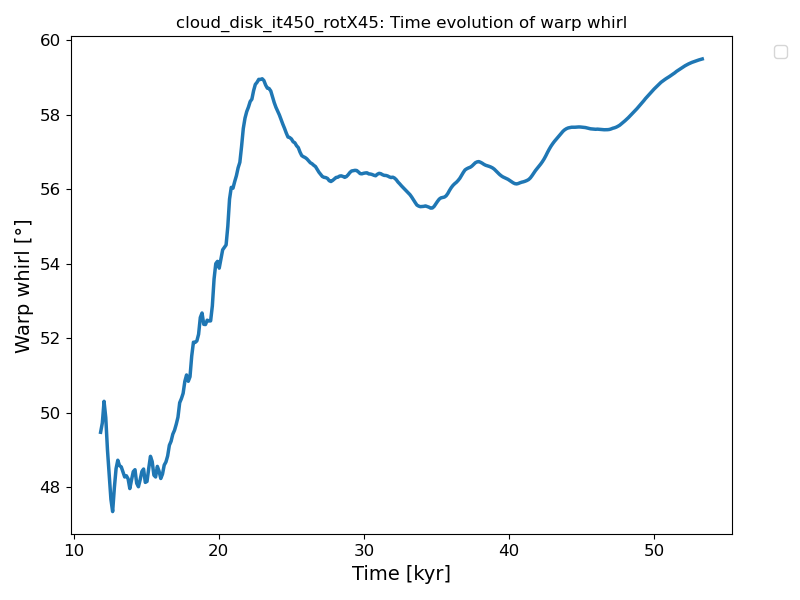
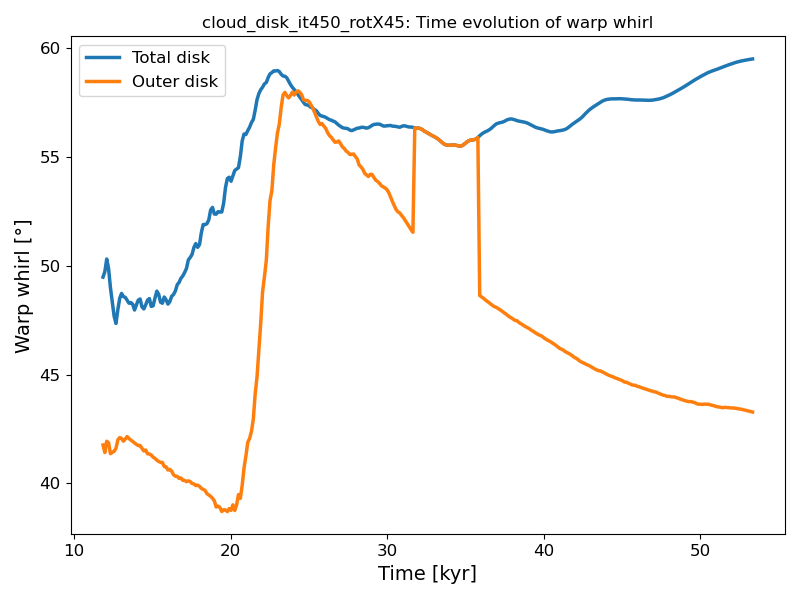
outer disk whirl calc

diff --git a/analysis.py b/analysis.py
@@ -511,7 +511,7 @@ def calc_inc_twist(Lx_avg, Ly_avg, Lz_avg, R, savefig, plot=True):
     return inc_deg, twist_deg
 
 
-def isolate_outer_disk(X, Y, Z, buffer, dens, vx, vy, vz, Lx, Ly, Lz, threshold):
+def isolate_outer_disk(R, RCYL, ZCYL, r_break, dens, Lx, Ly, Lz, threshold):
     """
     A crude way to isolate the disk: first isolating the box surrounding the disk of interest (primary or secondary) and then applying a density threshold to capture the highest densities in the simulation output to obtain the disk and reject the background
 
@@ -520,59 +520,31 @@ def isolate_outer_disk(X, Y, Z, buffer, dens, vx, vy, vz, Lx, Ly, Lz, threshold)
     X:            3D meshgrid of Cartesian X values with shape (n_theta-1, n_r-1, n_phi-1)
     Y:            3D meshgrid of Cartesian Y values with shape (n_theta-1, n_r-1, n_phi-1)
     Z:            3D meshgrid of Cartesian Z values with shape (n_theta-1, n_r-1, n_phi-1) 
-    cenX:         Stellar X-coordinate (float)
-    cenY:         Stellar Y-coordinate (float)
-    cenZ:         Stellar Z-coordinate (float) 
-    buffer:       Size of the box to be isolated around the star 
-    dens:         3D array of centered density in g/cm^3 with shape (n_theta-1, n_r-1, n_phi-1)
-    vx:           3D meshgrid of Cartesian X velocities with shape (n_theta-1, n_r-1, n_phi-1)
-    vy:           3D meshgrid of Cartesian Y velocities with shape (n_theta-1, n_r-1, n_phi-1)
-    vz:           3D meshgrid of Cartesian Z velocities with shape (n_theta-1, n_r-1, n_phi-1) 
-    Lx:           Angular momentum array in x-direction with size (theta-1, n_r-1, n_phi-1)
-    Ly:           Angular momentum array in y-direction with size (theta-1, n_r-1, n_phi-1)
-    Lz:           Angular momentum array in z-direction with size (theta-1, n_r-1, n_phi-1)        
+    dens:         3D array of centered density in g/cm^3 with shape (n_theta-1, n_r-1, n_phi-1)        
     threshold:    Threshold density by which we filter the dens array
 
     Outputs:
     -------
-    disk_dens:    3D array of filtered density in g/cm^3 with shape (n_theta-1, n_r-1, n_phi-1)
-    disk_vx:      3D array of filtered x velocities in cm/s with shape (n_theta-1, n_r-1, n_phi-1)
-    disk_vy:      3D array of filtered y velocities in cm/s with shape (n_theta-1, n_r-1, n_phi-1)
-    disk_vz:      3D array of filtered z velocities in cm/s with shape (n_theta-1, n_r-1, n_phi-1)
-    disk_Lx:      3D array of filtered x angular momenta in CGS with shape (n_theta-1, n_r-1, n_phi-1)
-    disk_Ly:      3D array of filtered y angular momenta in CGS with shape (n_theta-1, n_r-1, n_phi-1)
-    disk_Lz:      3D array of filtered z angular momenta in CGS with shape (n_theta-1, n_r-1, n_phi-1)
+    outer_dens:   3D array of filtered density in g/cm^3 with shape (n_theta-1, n_r-1, n_phi-1)
     ids:          3D array of indices corresponding to disk_dens
     """
 
-    # First isolating the box around the disk of interest to avoid capturing points outside disk that meet density threshold
-    box_mask = (
-        (X >= cenX - buffer) & (X <= cenX + buffer) &
-        (Y >= cenY - buffer) & (Y <= cenY + buffer) &
-        (Z >= cenZ - buffer) & (Z <= cenZ + buffer)
-    )
-    box_dens = np.where(box_mask, dens, np.nan)
-    box_vx = np.where(box_mask, vx, np.nan)
-    box_vy = np.where(box_mask, vy, np.nan)
-    box_vz = np.where(box_mask, vz, np.nan)
-    box_Lx = np.where(box_mask, Lx, np.nan)
-    box_Ly = np.where(box_mask, Ly, np.nan)
-    box_Lz = np.where(box_mask, Lz, np.nan)
+    outer_mask_geom = (R > r_break) & (RCYL < np.max(RCYL)) & (np.abs(ZCYL) < np.max(np.abs(ZCYL)))
+    outer_dens_box = np.where(outer_mask_geom, dens, np.nan)
+    outer_Lx_box = np.where(outer_mask_geom, Lx, np.nan)
+    outer_Ly_box = np.where(outer_mask_geom, Ly, np.nan)
+    outer_Lz_box = np.where(outer_mask_geom, Lz, np.nan)
 
-    # Filtering densities greater than a given threshold; values below the threshold are designated nan
-    dens_mask = dens > 10**threshold
-    outer_dens = np.where(dens_mask, box_dens, np.nan)
-    outer_vx = np.where(dens_mask, box_vx, np.nan)
-    outer_vy = np.where(dens_mask, box_vy, np.nan)
-    outer_vz = np.where(dens_mask, box_vz, np.nan)
-    outer_Lx = np.where(dens_mask, box_Lx, np.nan)
-    outer_Ly = np.where(dens_mask, box_Ly, np.nan)
-    outer_Lz = np.where(dens_mask, box_Lz, np.nan)
+    outer_mask_dense = dens > 10**threshold
+    outer_dens = np.where(outer_mask_dense, outer_dens_box, np.nan)
+    outer_Lx = np.where(outer_mask_dense, outer_Lx_box, np.nan)
+    outer_Ly = np.where(outer_mask_dense, outer_Ly_box, np.nan)
+    outer_Lz = np.where(outer_mask_dense, outer_Lz_box, np.nan)
 
     # Also finding the corresponding x, y, z indices of the filtered densities
     ids = ~np.isnan(outer_dens)
 
-    return outer_dens, outer_vx, outer_vy, outer_vz, outer_Lx, outer_Ly, outer_Lz, ids
+    return outer_dens, outer_Lx, outer_Ly, outer_Lz, ids
 
 
 def calc_total_L(Lx_avg, Ly_avg, Lz_avg):
@@ -616,9 +588,9 @@ def calc_whirl(Lx_tot, Ly_tot, Lz_tot, ini_cloud_phi):
 
 def main():
 
-    folder = Path("../cloud_disk_it450_Rout30_rotX45/")                        # Folder with the output files
-    # folder = Path("../fargo3d/outputs/cloud_disk_it450_Rout30_rotX45")         # Folder with the output files (BinAC2)
-    fig_imgs = Path("cloud_disk_it450_Rout30_rotX45/imgs/")                    # Folder to save images
+    folder = Path("../cloud_disk_it450_rotX45/")                        # Folder with the output files
+    # folder = Path("../fargo3d/outputs/cloud_disk_it450_rotX45")         # Folder with the output files (BinAC2)
+    fig_imgs = Path("cloud_disk_it450_rotX45/imgs/")                    # Folder to save images
     it = 450                                                       # FARGO snapshot of interest
     sim_name = str(fig_imgs).split('/')[0]                         # Simulation name (for plot labels)
     
@@ -718,7 +690,7 @@ def main():
     # XY_2D_plot(rho, X, Y, irad, itheta, title=rf'{sim_name}: Density X-Y Plane $\theta = $ {itheta_deg}$^{{\circ}}$', colorbarlabel=r"$\log(\rho)$", savefig=True, figfolder=f'{fig_imgs}/dens_xy_theta{itheta}_rad{irad}_it{it}.png', showfig=True)
 
     # Plotting the 3D warp/disk densities 
-    # contours_3D(X_c/au, Y_c/au, Z_c/au, np.log10(rho_c_warp), r_select, plot_args, colorbarlabel=r'$\log(\rho) [g/cm^3]$', title=rf'{sim_name}: Initial & Outer Disks: $\log(\rho)$', savefig=True, figfolder=f'{fig_imgs}/warp_dens_thresh{warp_thresh}_it{it}.png', showfig=True)
+    contours_3D(X_c/au, Y_c/au, Z_c/au, np.log10(rho_c_warp), r_select, plot_args, colorbarlabel=r'$\log(\rho) [g/cm^3]$', title=rf'{sim_name}: Initial & Outer Disks: $\log(\rho)$', savefig=True, figfolder=f'{fig_imgs}/warp_dens_thresh{warp_thresh}_it{it}.png', showfig=True)
     
     # Another way to plot the warp/disk densities
     # contours_3D(X_c[warp_ids]/au, Y_c[warp_ids]/au, Z_c[warp_ids]/au, rho_c[warp_ids], fig, colorbarlabel=r'$\rho [g/cm^3]$', title=rf'$\log(\rho)$ above $\rho = 10^{{{threshold}}} g/cm^3$')
@@ -748,12 +720,34 @@ def main():
     # Calculating the radial profile of warp/disk inclination and precession according to Kimmig & Dullemond (2024)
     Lx_warp_avg, Ly_warp_avg, Lz_warp_avg = calc_L_average(Lx_c_warp, Ly_c_warp, Lz_c_warp, mass)
     inc, twist = calc_inc_twist(Lx_warp_avg, Ly_warp_avg, Lz_warp_avg, domains["r"], savefig=False, plot=False)
-    print(np.min(twist), np.max(twist), np.mean(twist))
+    # print(np.min(twist), np.max(twist), np.mean(twist))
     # print(np.min(inc), np.max(inc), np.mean(inc))
 
-    # Isolating the outer disk by finding discontinuity in d(inc)/dr 
+
+    ###################################### Isolating the outer disk ############################################
+    
+
+    # Finding the radial separation between the inner and outer disks at the discontinuity of dinc/dr
     r_break = plot_disk_sep(domains["r"], inc, title=rf"{sim_name}: Inclination Gradient", savefig=True, figfolder=f'{fig_imgs}/dinc_dr.png', showfig=True)
     print("r_break:", r_break/au)
+
+    # Isolating the outer disk using r_break and a density threshold
+    R_c = centering(R)
+    RCYL_c = centering(RCYL)
+    outer_thresh = -17
+    outer_rho, Lx_outer, Ly_outer, Lz_outer, outer_ids = isolate_outer_disk(R_c, RCYL_c, Z_c, r_break, rho_c, Lx, Ly, Lz, threshold=outer_thresh)
+    r_outer_extent = np.sqrt(X_c[outer_ids]**2 +  Y_c[outer_ids]**2 + Z_c[outer_ids]**2) / au
+    mask = (domains["r"]/au >= r_outer_extent.min()) & (domains["r"]/au <= r_outer_extent.max())
+    r_outer = domains["r"][mask]
+
+    # Plotting outer disk in 3D
+    contours_3D(X_c/au, Y_c/au, Z_c/au, np.log10(outer_rho), r_outer, sim_params=None, colorbarlabel=r'$\log(\rho) [g/cm^3]$', title=rf'{sim_name}: Outer Disk: $\log(\rho)$', savefig=True, figfolder=f'{fig_imgs}/outer_dens_thresh{outer_thresh}_it{it}.png', showfig=True)
+
+
+    ###################### Disk morphology properties separating inner and outer disks #############################
+
+
+    ######### Total disk properties 
 
     # Calculating and plotting the total angular momentum of the warped disk
     Lx_disk, Ly_disk, Lz_disk = calc_total_L(Lx_warp_avg, Ly_warp_avg, Lz_warp_avg)
@@ -765,11 +759,22 @@ def main():
     # print("CLOUD_PHI:", cloud_phi)
 
     whirl = calc_whirl(Lx_disk, Ly_disk, Lz_disk, cloud_phi)
-    # print("WHIRL: ", whirl)
+    print("TOTAL DISK WHIRL: ", whirl)
 
     # Calculating and plotting the radial profile of warp/disk precession as a quiver plot
-    # plot_twist_arrows(Lx_warp_avg, Ly_warp_avg, Lz_warp_avg, domains["r"], r_select, plot_args, title=f"{sim_name}: Disk Twist", savefig=True, figfolder=f'{fig_imgs}/warp_twist_arrows_it{it}_dens{warp_thresh}.png', showfig=True)
-    # print(np.shape(Lx_warp_avg/Lx_disk), r_select.shape)
+    plot_twist_arrows(Lx_warp_avg, Ly_warp_avg, Lz_warp_avg, domains["r"], r_select, plot_args, title=f"{sim_name}: Disk Twist", savefig=True, figfolder=f'{fig_imgs}/warp_twist_arrows_it{it}_dens{warp_thresh}.png', showfig=True)
+    
+    ######### Outer disk properties 
+
+    # Radially averaged outer disk momenta
+    Lx_outer_avg, Ly_outer_avg, Lz_outer_avg = calc_L_average(Lx_outer, Ly_outer, Lz_outer, mass)
+    plot_twist_arrows(Lx_outer_avg, Ly_outer_avg, Lz_outer_avg, domains["r"], r_outer, sim_params=None, title=f"{sim_name}: Outer Disk Twist", savefig=True, figfolder=f'{fig_imgs}/outer_twist_arrows_it{it}_dens{outer_thresh}.png', showfig=True)
+
+    # Total outer disk momenta
+    Lx_outer_disk, Ly_outer_disk, Lz_outer_disk = calc_total_L(Lx_outer_avg, Ly_outer_avg, Lz_outer_avg)
+    outer_whirl = calc_whirl(Lx_outer_disk, Ly_outer_disk, Lz_outer_disk, cloud_phi)
+    print("OUTER DISK WHIRL: ", outer_whirl)
+
     # plotly_quiver3D(np.logspace(1, np.log10(r_select.max()/au), len(Lx_warp_avg)), np.zeros(len(Lx_warp_avg)), np.zeros(len(Lx_warp_avg)), Lx_warp_avg/Lx_disk, Ly_warp_avg/Ly_disk, Lz_warp_avg/Lz_disk, savefig=False, figfolder=f'{fig_imgs}/plotly_vel_thresh{warp_thresh}_it{it}.png', showfig=True)
 
     # quiver_plot_3d(np.array([Px]), np.array([Py]), np.array([Pz]), np.array([Lx_disk]), np.array([Ly_disk]), np.array([Lz_disk]), stagger=1, length=0.05, title=f"{sim_name} Total disk angular momentum", colorbarlabel="logL", savefig=False, figfolder=f'{fig_imgs}/{sim_name}_totalL.png', logmag=True)

diff --git a/time_evol.py b/time_evol.py
@@ -3,15 +3,17 @@
 import numpy as np
 from pathlib import Path
 from read import get_domain_spherical, get_data, load_par_file, get_param_value
-from analysis import sph_to_cart, vel_sph_to_cart, centering, calc_angular_momentum, calc_cell_volume, calc_eccen, calc_LRL, calc_mass, calc_surfdens, isolate_disk, calc_L_average, calc_simtime, calc_inc_twist, calc_whirl, calc_total_L, ini_cloudlet_pos
+from analysis import sph_to_cart, vel_sph_to_cart, centering, calc_angular_momentum, calc_cell_volume, calc_eccen, calc_LRL, calc_mass, calc_surfdens, isolate_disk, calc_L_average, calc_simtime, calc_inc_twist, calc_whirl, calc_total_L, ini_cloudlet_pos, isolate_outer_disk
 import matplotlib.pyplot as plt
 from mpl_toolkits.mplot3d.art3d import Poly3DCollection
 from matplotlib import cm
+import matplotlib.colors as colors
+import colormaps as cmaps
 from mpl_toolkits.mplot3d import Axes3D
 from PIL import Image
 import pandas as pd
 import os
-from no_thoughts_just_plots import XY_2D_plot, cyl_2D_plot, quiver_plot_3d, contours_3D, plot_surf_dens, plot_twist_arrows, make_evol_GIF, plot_total_disks_bonanza
+from no_thoughts_just_plots import XY_2D_plot, cyl_2D_plot, quiver_plot_3d, contours_3D, plot_surf_dens, plot_twist_arrows, make_evol_GIF, plot_total_disks_bonanza, plot_disk_sep
 import astropy.constants as c
 au = c.au.cgs.value
 G = 6.67e-8               # Gravitational constant in cgs units
@@ -46,6 +48,8 @@ def main():
     inc_it = []                                               # List to save disk inclination at each iteration
     prec_it = []                                              # List to save disk precession at each iteration
     whirl_it = []                                             # List to save disk whirl at each iteration
+    outer_whirl_it = []                                       # List to save outer disk whirl at each iteration
+    di_dr_it = []                                             # List to save d(inc)/dr at each iteration
     L_angle_it = []                                           # List to save L angle between primary and companion at each iteration
     surf_dens_iter = []                                       # List to save surface density at each iter_check
     r_surf_dens_iter = []                                     # List to save surface density radii at each iter_check
@@ -163,6 +167,35 @@ def main():
 
         # Calculating and plotting the radial profile of warp precession as a quiver plot
         # plot_twist_arrows(Lx_warp_avg, Ly_warp_avg, Lz_warp_avg, domains["r"], r_select, plot_args, title=f"Warp twist {sim_name} t={int(calc_simtime(it))} kyr", savefig=True, figfolder=f'{fig_imgs}/warp_twist_arrows_it{it}.png', showfig=False)
+
+
+        ###################################### Isolating the outer disk ############################################
+    
+
+        # Finding the radial separation between the inner and outer disks at the discontinuity of dinc/dr
+        di_dr = np.gradient(inc, rc)
+        di_dr_it.append(di_dr)
+        r_break = rc[np.nanargmax(np.abs(di_dr))]
+        print("r_break:", r_break/au)
+
+        # Isolating the outer disk using r_break and a density threshold
+        R_c = centering(R)
+        RCYL_c = centering(RCYL)
+        outer_thresh = -17
+        outer_rho, Lx_outer, Ly_outer, Lz_outer, outer_ids = isolate_outer_disk(R_c, RCYL_c, Z_c, r_break, rho_c, Lx, Ly, Lz, threshold=outer_thresh)
+        r_outer_extent = np.sqrt(X_c[outer_ids]**2 +  Y_c[outer_ids]**2 + Z_c[outer_ids]**2) / au
+        mask = (domains["r"]/au >= r_outer_extent.min()) & (domains["r"]/au <= r_outer_extent.max())
+        r_outer = domains["r"][mask]
+
+        # Radially averaged outer disk momenta
+        Lx_outer_avg, Ly_outer_avg, Lz_outer_avg = calc_L_average(Lx_outer, Ly_outer, Lz_outer, mass)
+        # plot_twist_arrows(Lx_outer_avg, Ly_outer_avg, Lz_outer_avg, domains["r"], r_outer, sim_params=None, title=f"{sim_name}: Outer Disk Twist", savefig=True, figfolder=f'{fig_imgs}/outer_twist_arrows_it{it}_dens{outer_thresh}.png', showfig=True)
+
+        # Total outer disk momenta
+        Lx_outer_disk, Ly_outer_disk, Lz_outer_disk = calc_total_L(Lx_outer_avg, Ly_outer_avg, Lz_outer_avg)
+        outer_whirl = calc_whirl(Lx_outer_disk, Ly_outer_disk, Lz_outer_disk, cloud_phi)
+        print("OUTER DISK WHIRL: ", outer_whirl)
+        outer_whirl_it.append(outer_whirl)
 
         # Calculating warp surface density
         if it in iter_check:
@@ -329,16 +362,37 @@ def main():
     plt.show()
 
 
-    # Plot time evolution of warp whirl in 2D for some specific iters in iter_check
+    # Plot time evolution of total disk whirl and outer disk whirl  
     fig = plt.figure(figsize=(8, 6))
-    plt.plot(dt_years, whirl_it)
+    plt.plot(dt_years, whirl_it, label="Total disk")
+    plt.plot(dt_years, outer_whirl_it, label="Outer disk")
     plt.xlabel("Time [kyr]")
     plt.ylabel("Warp whirl [°]")
-    plt.legend(bbox_to_anchor=(1.05, 1), loc='upper left')
+    plt.legend(loc='upper left')
     plt.title(f"{sim_name}: Time evolution of warp whirl")
     plt.tight_layout()
     plt.savefig(f'{fig_imgs}/warp_whirl_evol.png')
     plt.show()
+
+
+    # Plot time evolution of d(inc)/dr
+    cols = cmaps.hawaii.discrete(len(dt_years))
+    cols = cols(np.linspace(0, 1, 4))
+    fig, ax = plt.subplots()
+    for i in range(len(dt_years)):
+        plt.plot(domains["r"][:-1]/au, di_dr_it[i], color=cols[i])
+    ax.set_xlabel("R [AU]")
+    ax.set_ylabel(r"$\frac{d(inc)}{dr}$")
+    ax.set_title(fr"{sim_name}: Inclination Gradient Time Evol")
+
+    norm = colors.Normalize(vmin=0, vmax=len(dt_years)-1)
+    sm = cm.ScalarMappable(cmap=cols, norm=norm)
+    sm.set_array([])
+    cbar = fig.colorbar(sm, ax=ax)
+    cbar.set_label("Time [kyr]")
+    plt.savefig(f'{fig_imgs}/dinc_dr_timeevol.png')
+    plt.show()
+
 
     # Plot time evolution of surface densities
     fig = plt.figure(figsize=(8, 6))
@@ -367,7 +421,7 @@ def main():
     # make_evol_GIF(fig_imgs, "warp_dens_thresh", "warp_dens_movie")
     # make_evol_GIF(fig_imgs, "warp_twist_arrows", "warp_twist_movie")
     # make_evol_GIF(fig_imgs, "dens_phiavg_cyl_phi", "dens_phiavg_cyl_movie")
-    make_evol_GIF(fig_imgs, "dens_cyl_phi", "dens_cyl_movie")
+    # make_evol_GIF(fig_imgs, "dens_cyl_phi", "dens_cyl_movie")
     # make_evol_GIF(fig_imgs, "dens_xy_theta", "dens_xy_movie")
     # make_evol_GIF(fig_imgs, "total_bonanza", "total_bonanza_movie")
 

diff --git a/no_thoughts_just_plots.py b/no_thoughts_just_plots.py
@@ -248,9 +248,10 @@ def contours_3D(X, Y, Z, data, Rwarp, sim_params, colorbarlabel, title, savefig,
     plt.colorbar(p, pad=0.08, label=colorbarlabel) #, shrink=0.85), fraction=0.046)
 
     # Adding a textbox to show simulation parameters
-    param_text = '\n'.join(f'{key}: {value}' for key, value in sim_params.items())
-    props = dict(boxstyle='round', facecolor='white', pad=0.6, alpha=0.3)   
-    ax.text2D(0.9, 0.1, param_text, transform=ax.transAxes, fontsize=9, horizontalalignment='center', verticalalignment='center', bbox=props)
+    if sim_params != None:
+        param_text = '\n'.join(f'{key}: {value}' for key, value in sim_params.items())
+        props = dict(boxstyle='round', facecolor='white', pad=0.6, alpha=0.3)   
+        ax.text2D(0.9, 0.1, param_text, transform=ax.transAxes, fontsize=9, horizontalalignment='center', verticalalignment='center', bbox=props)
 
     # Plot formatting
     ax.set_xlabel("X [AU]")
@@ -534,9 +535,10 @@ def plot_twist_arrows(Lx_avg, Ly_avg, Lz_avg, R, Rwarp, sim_params, title, savef
     #     plt.colorbar(p, pad=0.08, label=r'$\rho [g/cm^3]$') #, shrink=0.85), fraction=0.046)
 
     # Adding a textbox to show simulation parameters
-    param_text = '\n'.join(f'{key}: {value}' for key, value in sim_params.items())
-    props = dict(boxstyle='round', facecolor='white', pad=0.6, alpha=0.3)   
-    ax.text2D(0.9, 0.9, param_text, transform=ax.transAxes, fontsize=9, horizontalalignment='center', verticalalignment='center', bbox=props)
+    if sim_params != None:
+        param_text = '\n'.join(f'{key}: {value}' for key, value in sim_params.items())
+        props = dict(boxstyle='round', facecolor='white', pad=0.6, alpha=0.3)   
+        ax.text2D(0.9, 0.9, param_text, transform=ax.transAxes, fontsize=9, horizontalalignment='center', verticalalignment='center', bbox=props)
 
     ax.set_xlabel('X [AU]')
     ax.set_ylabel('Y [AU]')
@@ -833,8 +835,8 @@ def plot_disk_sep(R, inc, title, savefig, figfolder, showfig=True):
     plt.axvline(r_break/au, color='black', linestyle='--', linewidth=2.5)         # Label separation between inner and outer disks
     plt.axvspan(10, r_break/au, color=colours[1], alpha=0.3)                      # Shading area corresponding to the inner disk
     plt.axvspan(r_break/au, 300, color=colours[2], alpha=0.3)                     # Shading area corresponding to the outer disk
-    plt.text(25, np.nanmax(di_dr) * 0.6, "Inner disk", color=colours[1], ha='center', va="center", rotation="vertical")        # Labelling inner disk
-    plt.text(150, np.nanmax(di_dr) * 0.6, "Outer disk", color=colours[2], ha='center')  # Labelling outer disk
+    plt.text(50, np.nanmax(di_dr) * 0.6, "Inner disk", color=colours[1], ha='center', va="center", rotation="vertical")        # Labelling inner disk
+    plt.text(220, np.nanmax(di_dr) * 0.6, "Outer disk", color=colours[2], ha='center')  # Labelling outer disk
 
     plt.xlabel("R [AU]")
     plt.ylabel(r"$\frac{d(inc)}{dr}$")
